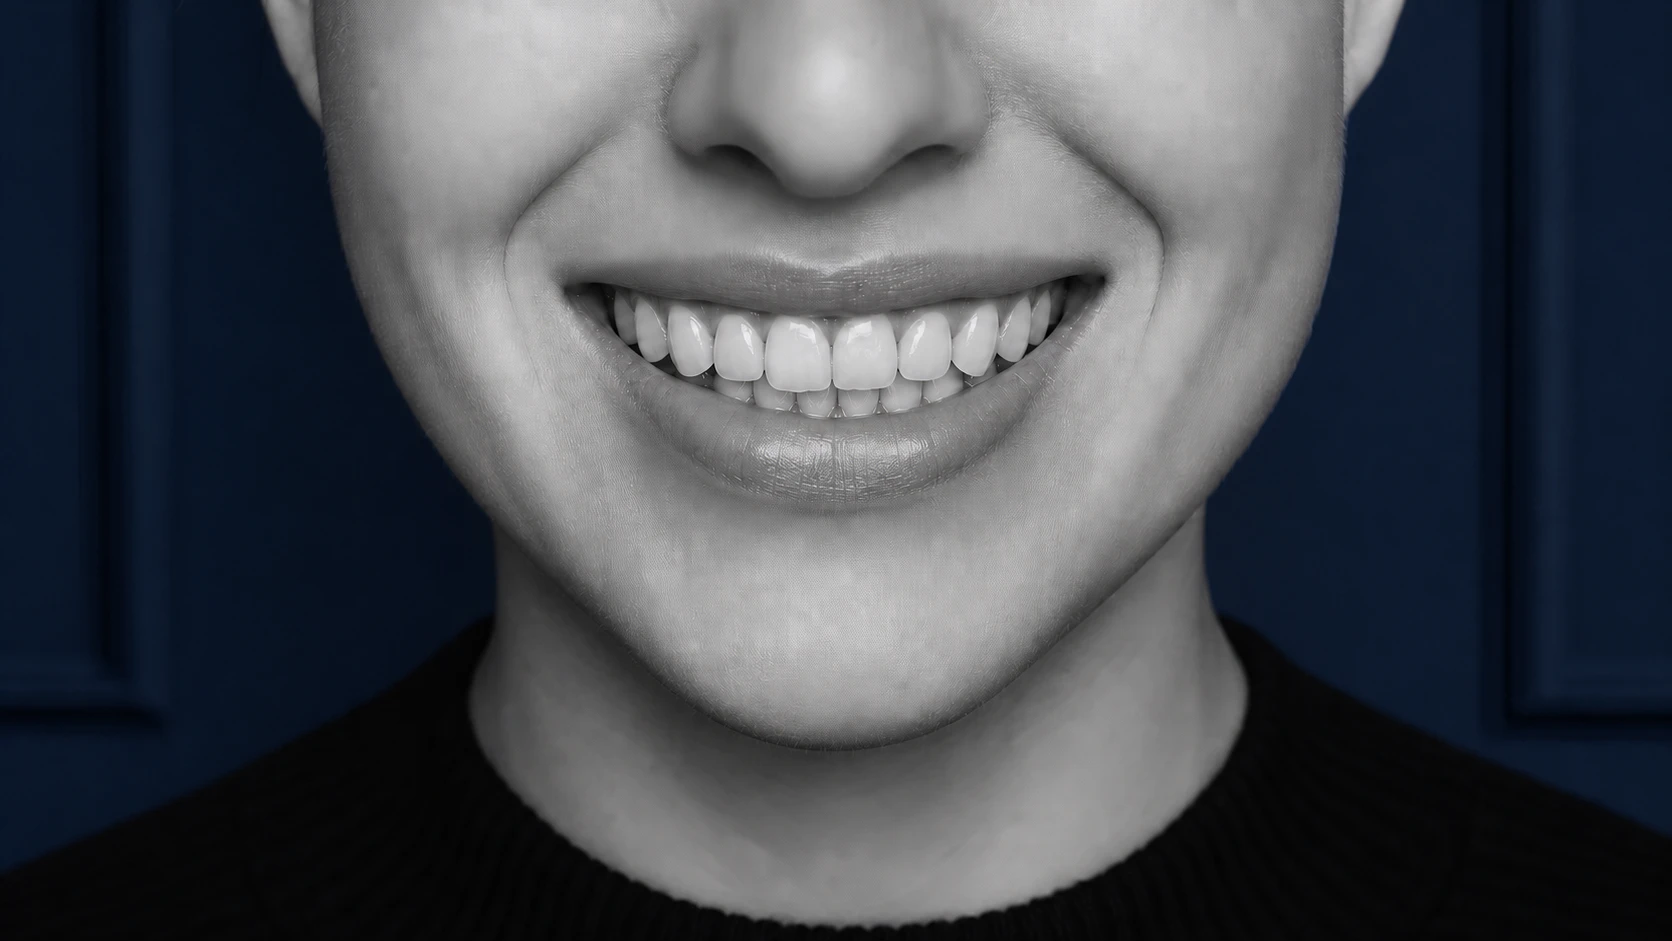
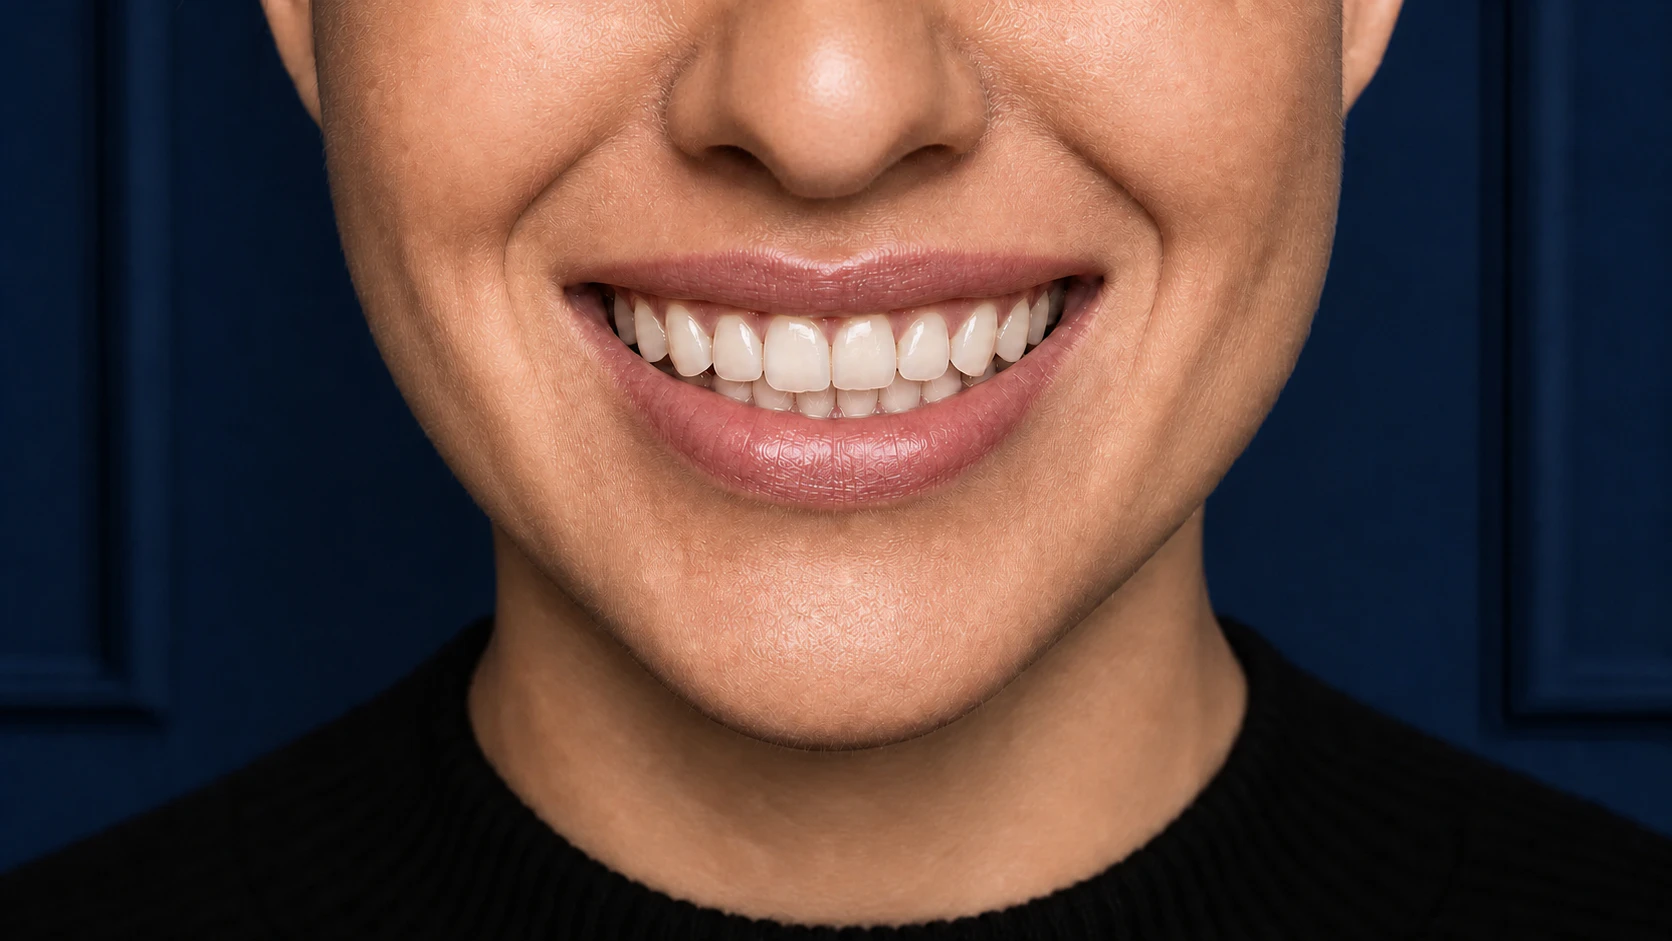
Restore full-color smile comparison

diff --git a/app/ClinicSite.tsx b/app/ClinicSite.tsx
@@ -880,8 +880,8 @@ function GallerySection({ expanded = false }: { expanded?: boolean }) {
       </div>
       {expanded && <div className="gallery-filters">{filters.map((item) => <button className={filter === item ? "active" : ""} onClick={() => setFilter(item)} key={item}>{item}</button>)}</div>}
       <div className="comparison-card">
-        <div className="smile-before media-treatment media-treatment-clinical"><span>BEFORE</span></div>
-        <div className="smile-after media-treatment media-treatment-clinical" style={{ clipPath: `inset(0 ${100 - position}% 0 0)` }}><span>AFTER</span></div>
+        <div className="smile-before media-treatment"><span>BEFORE</span></div>
+        <div className="smile-after media-treatment" style={{ clipPath: `inset(0 ${100 - position}% 0 0)` }}><span>AFTER</span></div>
         <input aria-label="Before and after comparison" type="range" min="8" max="92" value={position} onChange={(event) => setPosition(Number(event.target.value))}/>
         <div className="comparison-handle" style={{ left: `${position}%` }}><ArrowLeft size={14}/><ArrowRight size={14}/></div>
         <div className="comparison-caption"><small>{filter === "All" ? "WHITENING + ALIGNMENT" : filter.toUpperCase()}</small><b>Confidence, without looking “done”.</b><span>Representative visualization · Individual results vary</span></div>

diff --git a/app/globals.css b/app/globals.css
@@ -325,6 +325,8 @@ button:focus-visible,a:focus-visible,input:focus-visible,select:focus-visible,te
 .smile-before,.smile-after { --media-position: center 52%; position: absolute; inset: 0; }
 .smile-before { --media-image: url("/images/smile-before.webp"); }
 .smile-after { --media-image: url("/images/smile-after.webp"); }
+.smile-before::before,.smile-after::before { filter: none; }
+.smile-before::after,.smile-after::after { background: transparent; }
 .smile-before > span,.smile-after > span { position: absolute; top: 22px; padding: 7px 9px; border-radius: 6px; background: rgba(30,28,25,.66); color: #fff; font-size: 7px; letter-spacing: .1em; }
 .smile-before > span { left: 22px; }
 .smile-after > span { right: 22px; }
